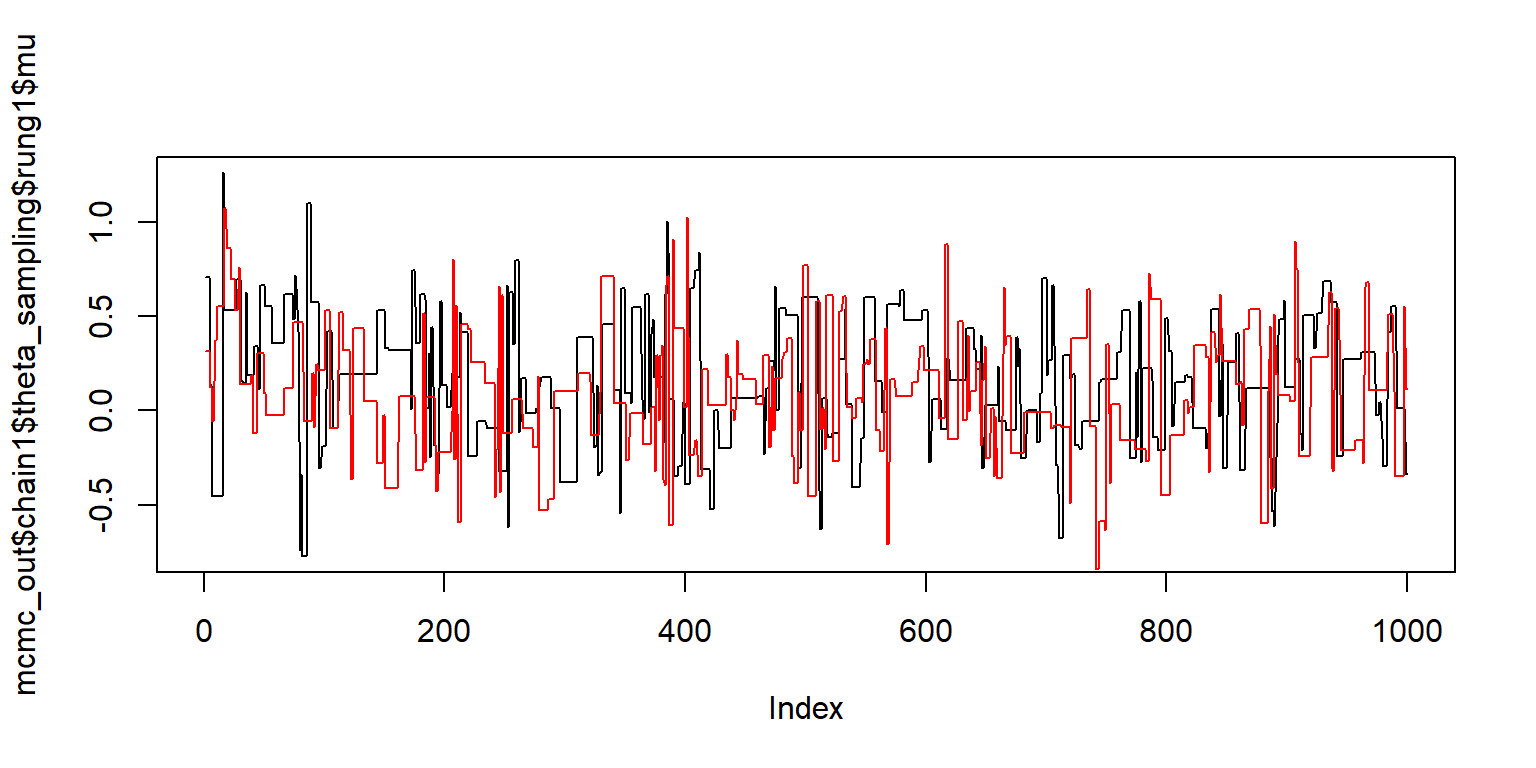
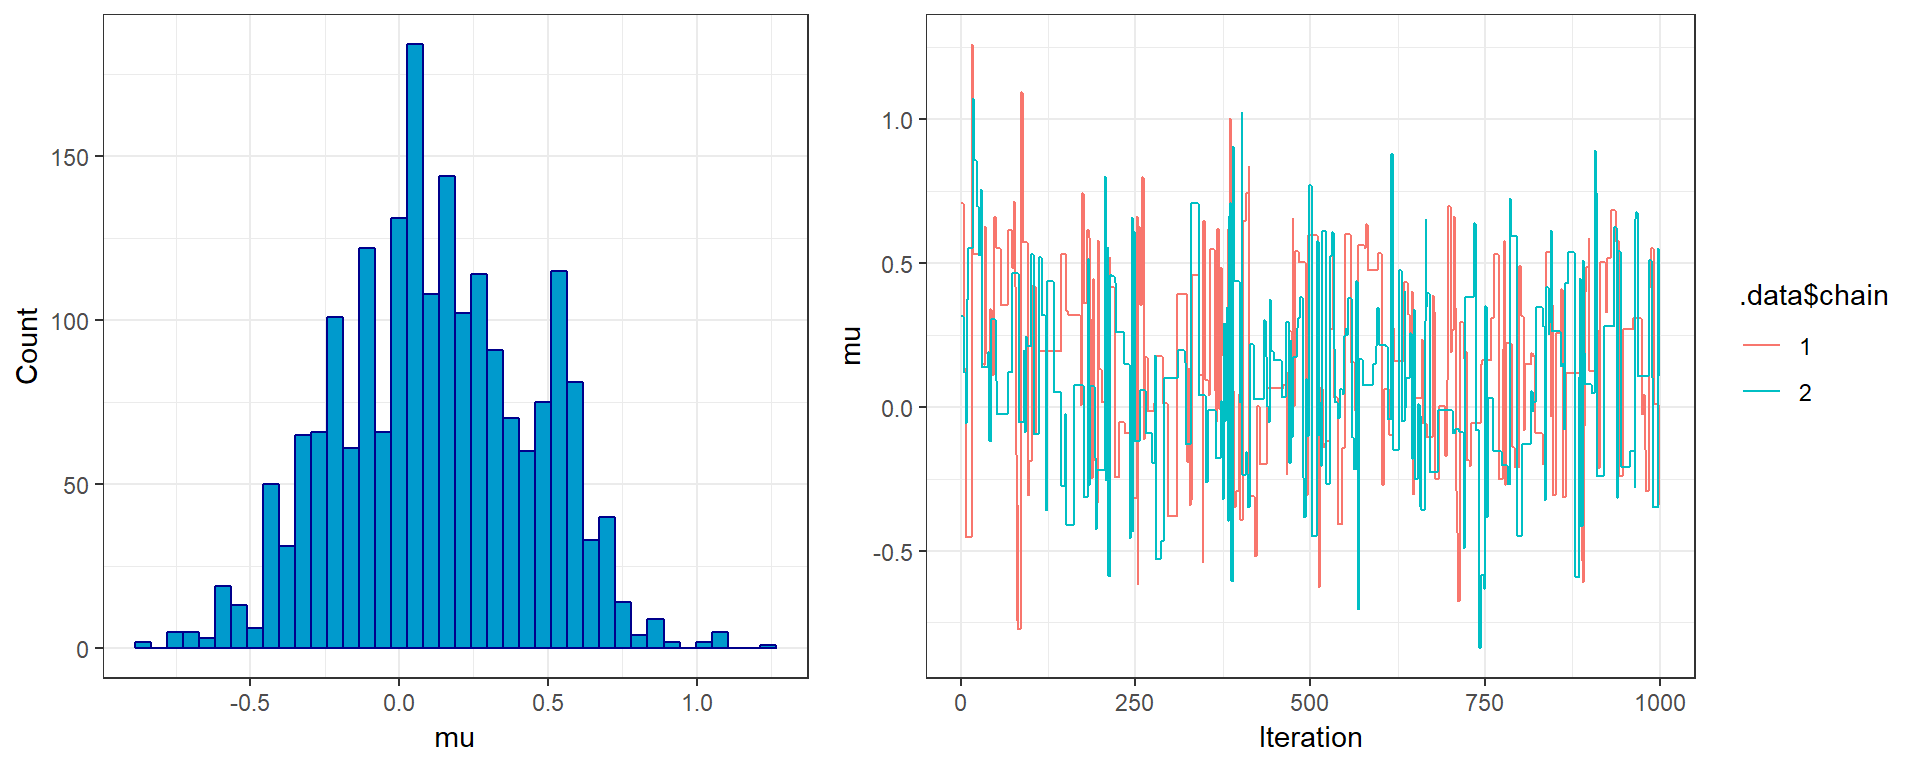
Effective sample size and parameter plots

diff --git a/docs/articles/parallel.html b/docs/articles/parallel.html
@@ -144,7 +144,7 @@ mcmc_out &lt;-<span class="st"> </span><span class="kw"><a href="../reference/ru
 <span class="st">  </span><span class="er">|=================================================================|</span><span class="st"> </span><span class="dv">100</span>%
 <span class="co">#&gt; acceptance rate: 23.4%</span>
 <span class="co">#&gt; </span>
-<span class="co">#&gt; completed in 0.000000 seconds</span>
+<span class="co">#&gt; completed in 0.001994 seconds</span>
 <span class="co">#&gt; MCMC chain 2</span>
 <span class="co">#&gt; burn-in</span>
 <span class="co">#&gt; </span>
@@ -157,8 +157,8 @@ mcmc_out &lt;-<span class="st"> </span><span class="kw"><a href="../reference/ru
 <span class="st">  </span><span class="er">|=================================================================|</span><span class="st"> </span><span class="dv">100</span>%
 <span class="co">#&gt; acceptance rate: 23.5%</span>
 <span class="co">#&gt; </span>
-<span class="co">#&gt; completed in 0.000000 seconds</span></code></pre></div>
-<p>When we look at our MCMC output we can see that there are 2 chains, each of which contains independent draws from the posterior. If we used multiple <a href="https://mrc-ide.github.io/drjacoby/articles/metropolis_coupling.html">temperature rungs</a> then these would also be duplicated over chains.</p>
+<span class="co">#&gt; completed in 0.001999 seconds</span></code></pre></div>
+<p>When we look at our MCMC output (using the <code><a href="../reference/plot_par.html">plot_par()</a></code> function) we can see that there are 2 chains, each of which contains independent draws from the posterior. If we used multiple <a href="https://mrc-ide.github.io/drjacoby/articles/metropolis_coupling.html">temperature rungs</a> then these would also be duplicated over chains.</p>
 <div class="sourceCode"><pre class="sourceCode r"><code class="sourceCode r"><span class="co"># summarise output</span>
 mcmc_out
 <span class="co">#&gt; drjacoby output:</span>
@@ -169,9 +169,8 @@ mcmc_out
 <span class="co">#&gt; 1 parameters</span>
 
 <span class="co"># compare mu over both chains</span>
-<span class="kw"><a href="https://www.rdocumentation.org/packages/graphics/topics/plot">plot</a></span>(mcmc_out<span class="op">$</span>chain1<span class="op">$</span>theta_sampling<span class="op">$</span>rung1<span class="op">$</span>mu, <span class="dt">type =</span> <span class="st">"l"</span>)
-<span class="kw"><a href="https://www.rdocumentation.org/packages/graphics/topics/lines">lines</a></span>(mcmc_out<span class="op">$</span>chain2<span class="op">$</span>theta_sampling<span class="op">$</span>rung1<span class="op">$</span>mu, <span class="dt">col =</span> <span class="dv">2</span>)</code></pre></div>
-<p><img src="parallel_files/figure-html/unnamed-chunk-4-1.png" width="768"></p>
+<span class="kw"><a href="../reference/plot_par.html">plot_par</a></span>(mcmc_out, <span class="st">"mu"</span>)</code></pre></div>
+<p><img src="parallel_files/figure-html/unnamed-chunk-4-1.png" width="960"></p>
 <p>Running in parallel is only slightly more complex. Before running anything we need to know how many cores our machine has. You may know this number already, but if you don’t then the <code>parallel</code> package has a handy function for detecting the number of cores for you:</p>
 <div class="sourceCode"><pre class="sourceCode r"><code class="sourceCode r">cores &lt;-<span class="st"> </span>parallel<span class="op">::</span><span class="kw"><a href="https://www.rdocumentation.org/packages/parallel/topics/detectCores">detectCores</a></span>()</code></pre></div>
 <p>Next we make a cluster object, which creates multiple copies of R running in parallel over different cores. Here we are using all available cores, but if you want to hold some back for other intensive tasks then simply use a smaller number of cores when specifying this cluster.</p>
@@ -196,13 +195,18 @@ mcmc_out &lt;-<span class="st"> </span><span class="kw"><a href="../reference/ru
 <h2 class="hasAnchor">
 <a href="#comparing-chains" class="anchor"></a>Comparing chains</h2>
 <p>One method of evaluating convergence is the rhat statistic, initially proposed by Gelman &amp; Rubin (1992). This method involves comparing the within-chain with the between-chain variance. Similar estimates for these two values (rhat -&gt; 1) can be used as an indicator of convergence. An approximate rhat estimate is automatically generated in drjacoby:</p>
-<div class="sourceCode"><pre class="sourceCode r"><code class="sourceCode r">mcmc_out<span class="op">$</span>chain1<span class="op">$</span>diagnostics<span class="op">$</span>rhat
+<div class="sourceCode"><pre class="sourceCode r"><code class="sourceCode r"><span class="co"># Rhat statistic</span>
+mcmc_out<span class="op">$</span>chain1<span class="op">$</span>diagnostics<span class="op">$</span>rhat
 <span class="co">#&gt;     mu </span>
 <span class="co">#&gt; 1.0152</span></code></pre></div>
-<ul>
-<li>Autocorrelation &amp; effective sample size</li>
-<li>plots?</li>
-</ul>
+<p>Chains from the MCMC will be autocorrelated. To assess the extent of autocorrelation we can view the correlation betwen values at a range of lags usin the <code><a href="../reference/plot_autocorrelation.html">plot_autocorrelation()</a></code> function, specifying the chain and parameter:</p>
+<div class="sourceCode"><pre class="sourceCode r"><code class="sourceCode r"><span class="kw"><a href="../reference/plot_autocorrelation.html">plot_autocorrelation</a></span>(mcmc_out, <span class="dt">par =</span> <span class="st">"mu"</span>, <span class="dt">chain =</span> <span class="dv">1</span>)</code></pre></div>
+<p><img src="parallel_files/figure-html/unnamed-chunk-10-1.png" width="576"></p>
+<p>Chain autocorrealtion can be incorporated into estimate of effective sample size, which are automatically calculated by drjacoby:</p>
+<div class="sourceCode"><pre class="sourceCode r"><code class="sourceCode r"><span class="co"># Effective sample size (from 1000 sampling iterations)</span>
+mcmc_out<span class="op">$</span>chain1<span class="op">$</span>diagnostics<span class="op">$</span>ess
+<span class="co">#&gt;  mu </span>
+<span class="co">#&gt; 130</span></code></pre></div>
 </div>
   </div>
 

diff --git a/docs/articles/example.html b/docs/articles/example.html
@@ -183,7 +183,7 @@ r_mcmc_out &lt;-<span class="st"> </span><span class="kw"><a href="../reference/
 <span class="st">  </span><span class="er">|=================================================================|</span><span class="st"> </span><span class="dv">100</span>%
 <span class="co">#&gt; acceptance rate: 23.6%</span>
 <span class="co">#&gt; </span>
-<span class="co">#&gt; completed in 0.231051 seconds</span></code></pre></div>
+<span class="co">#&gt; completed in 0.182513 seconds</span></code></pre></div>
 <p>The raw output produced is essentially a large nested list, containing all log-likelihoods and parameter values. We can dig down to individual elements of this list using the <code>$</code> symbol, which can be combined with auto-complete on most platforms to make life easier. For example, the following line prints the first few <code>mu</code> values from from first rung of the the first chain:</p>
 <div class="sourceCode"><pre class="sourceCode r"><code class="sourceCode r"><span class="co"># get first few mu values</span>
 <span class="kw"><a href="https://www.rdocumentation.org/packages/utils/topics/head">head</a></span>(r_mcmc_out<span class="op">$</span>chain1<span class="op">$</span>theta_burnin<span class="op">$</span>rung1<span class="op">$</span>mu)
@@ -265,14 +265,14 @@ r_mcmc_out &lt;-<span class="st"> </span><span class="kw"><a href="../reference/
 <span class="co">#&gt; </span>
   <span class="op">|</span><span class="st">                                                                       </span>
 <span class="st">  </span><span class="er">|=================================================================|</span><span class="st"> </span><span class="dv">100</span>%
-<span class="co">#&gt; acceptance rate: 23.1%</span>
+<span class="co">#&gt; acceptance rate: 22.9%</span>
 <span class="co">#&gt; sampling phase</span>
 <span class="co">#&gt; </span>
   <span class="op">|</span><span class="st">                                                                       </span>
 <span class="st">  </span><span class="er">|=================================================================|</span><span class="st"> </span><span class="dv">100</span>%
-<span class="co">#&gt; acceptance rate: 23.7%</span>
+<span class="co">#&gt; acceptance rate: 23.8%</span>
 <span class="co">#&gt; </span>
-<span class="co">#&gt; completed in 0.000000 seconds</span></code></pre></div>
+<span class="co">#&gt; completed in 0.006005 seconds</span></code></pre></div>
 <p>You should see that this MCMC runs considerably faster than the previous version that used R functions. There is a short delay initially while the strings are compiled into functions, but this only occurs the first time a function is compiled. We can quantify how much faster the C++ method is using the <code>microbenchmark</code> package. In the following we compare the MCMC evaluated over 100,000 iterations using 1) the R likelihood and prior, 2) the C++ likelihood and prior, 3) a mixed method using the C++ likelihood but the R prior.</p>
 <p><img src="example_files/figure-html/unnamed-chunk-13-1.png" width="672"></p>
 <p>The pure C++ version was on average around 17.6 times faster than the pure R version in this example. It is interesting to note that the mixed C++ and R version lies almost exactly between the two pure methods, suggesting that the computational cost of the pure R version is dominated in almost equal measure by calculating the likelihood and the prior. In conclusion, if efficiency is your goal then C++ versions of <em>both</em> the likelihood and prior should be used. If ease of programming is more important then R versions of these functions should suffice.</p>

diff --git a/docs/articles/metropolis_coupling.html b/docs/articles/metropolis_coupling.html
@@ -194,7 +194,7 @@ mcmc_out &lt;-<span class="st"> </span><span class="kw"><a href="../reference/ru
 <span class="st">  </span><span class="er">|=================================================================|</span><span class="st"> </span><span class="dv">100</span>%
 <span class="co">#&gt; acceptance rate: 23.4%</span>
 <span class="co">#&gt; </span>
-<span class="co">#&gt; completed in 0.758645 seconds</span>
+<span class="co">#&gt; completed in 0.709101 seconds</span>
 
 <span class="co"># create plot of alpha against beta</span>
 plot_base <span class="op">+</span><span class="st"> </span>ggplot2<span class="op">::</span><span class="kw"><a href="https://www.rdocumentation.org/packages/ggplot2/topics/geom_point">geom_point</a></span>(ggplot2<span class="op">::</span><span class="kw"><a href="https://www.rdocumentation.org/packages/ggplot2/topics/aes">aes</a></span>(<span class="dt">x =</span> alpha, <span class="dt">y =</span> beta),
